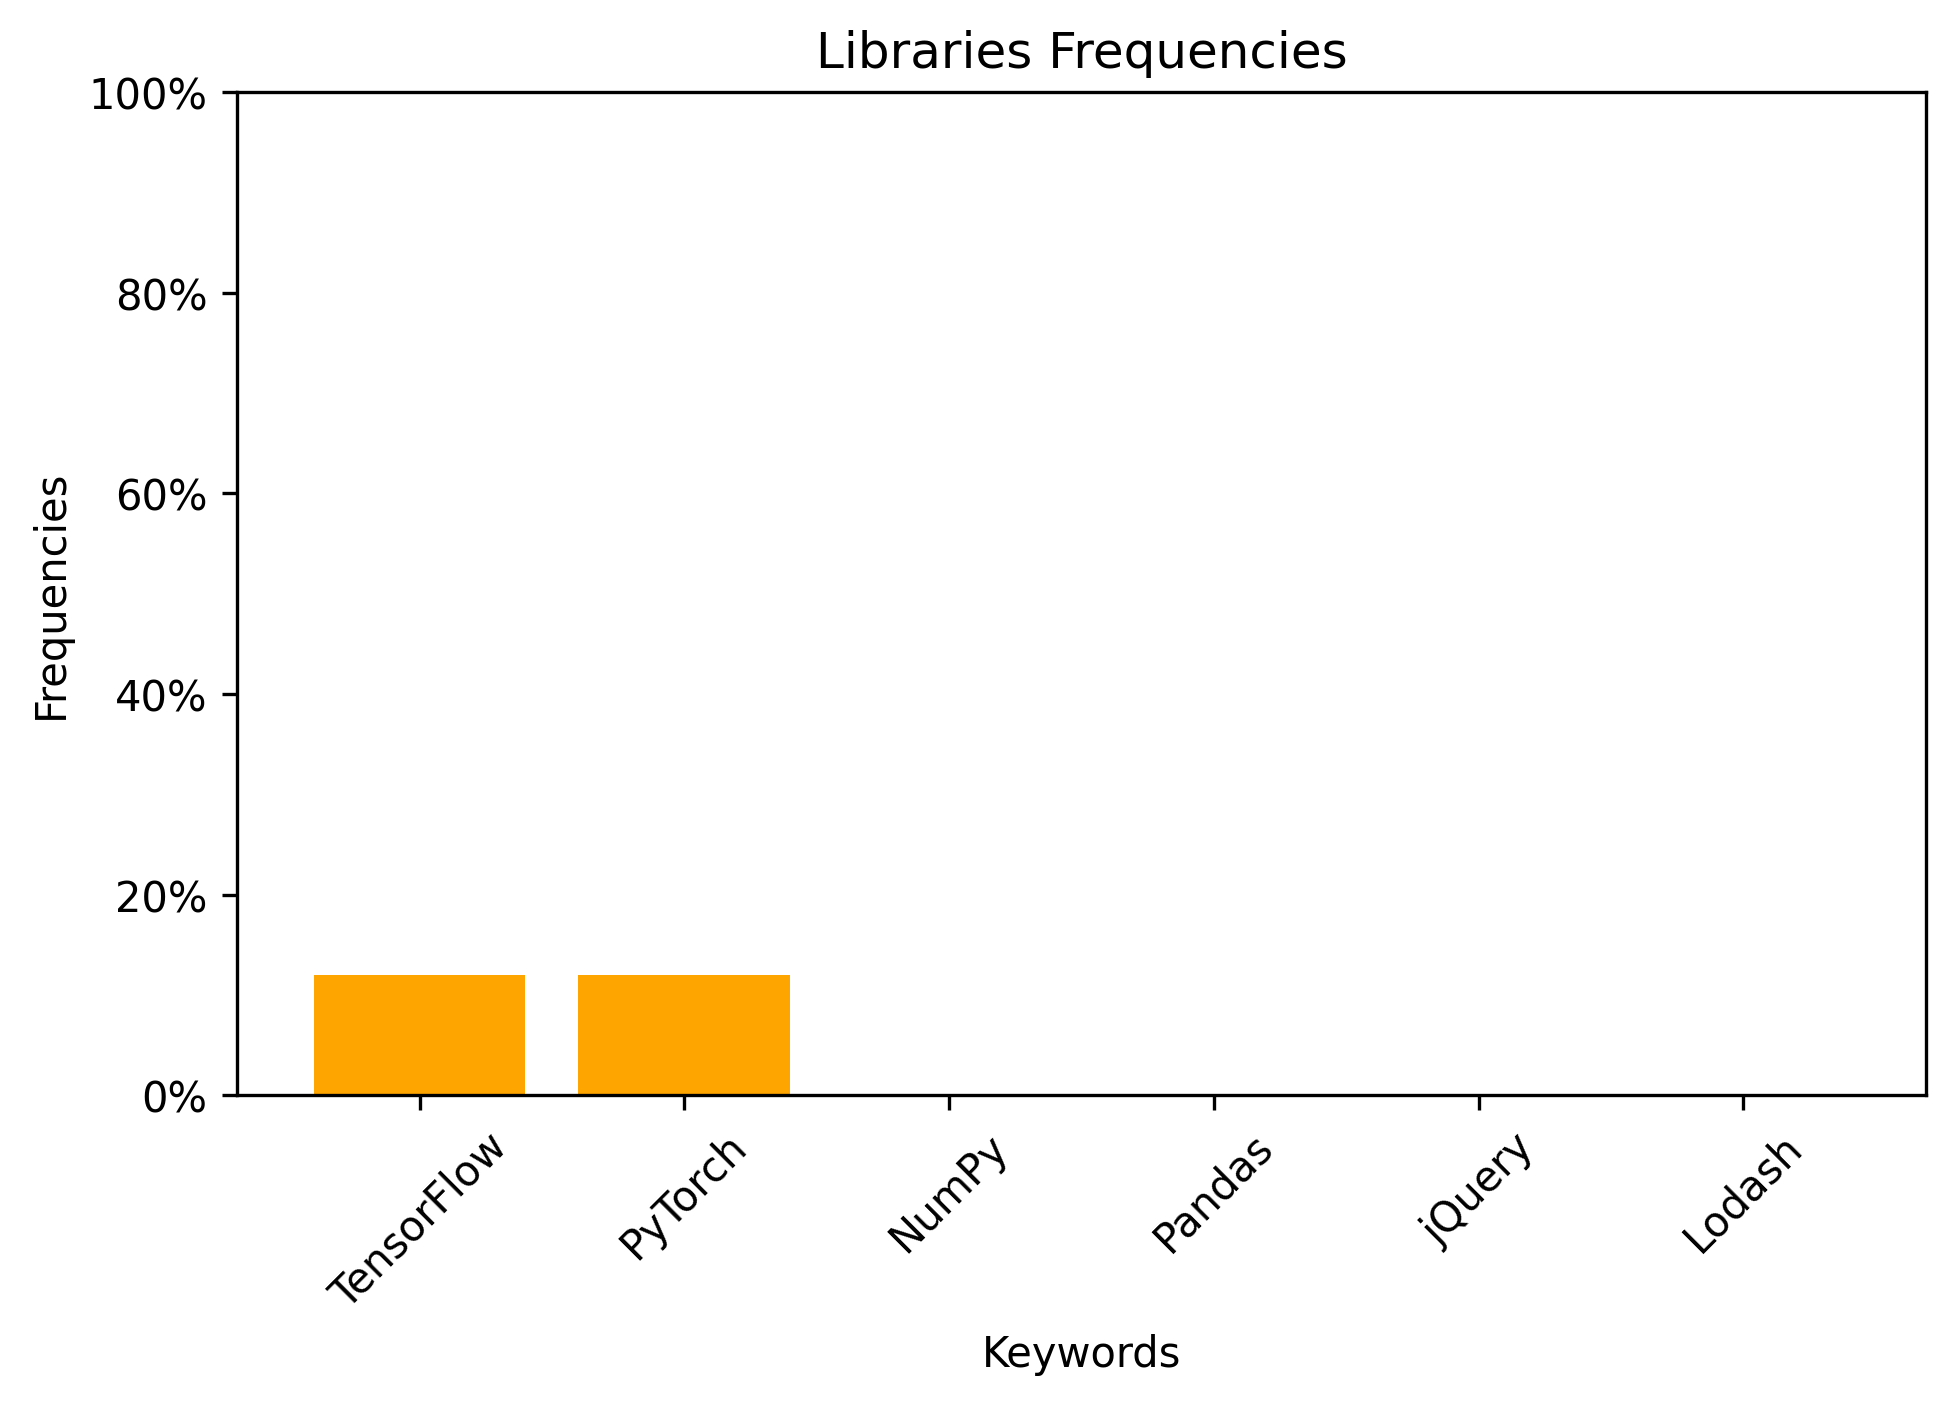
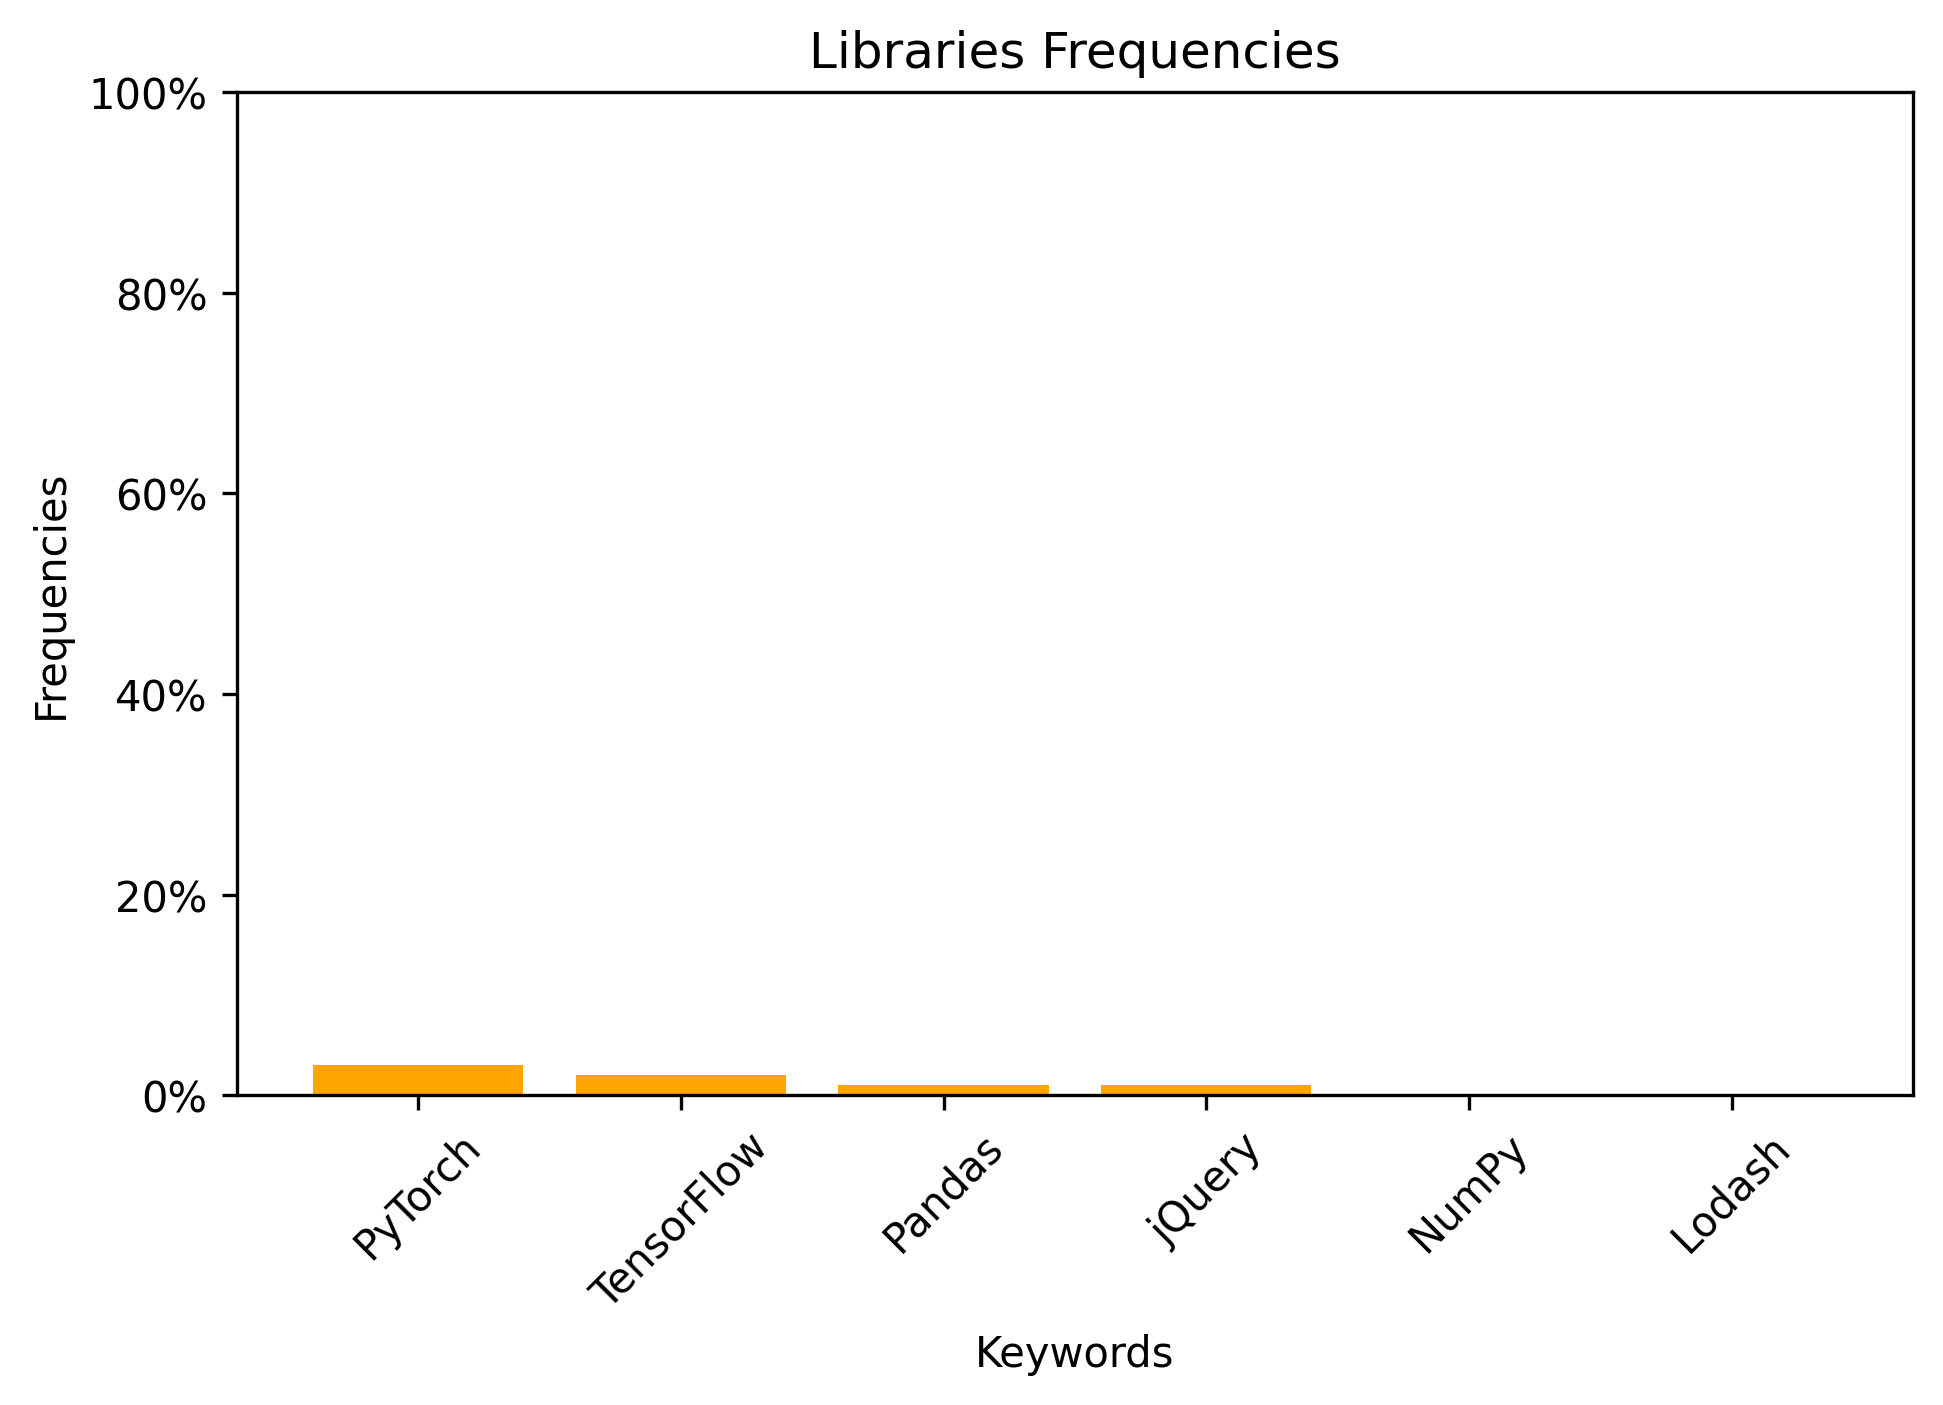
Added 3rd GitHub job board URL and ran with limit of 300

diff --git a/scraper.py b/scraper.py
@@ -8,10 +8,11 @@ import string
 import os
 from keywords import keywords
 
-LIMIT = 20 # number of application links to scrape
+LIMIT = 300 # number of application links to scrape
 URLS = [
     "https://github.com/SimplifyJobs/Summer2026-Internships?tab=readme-ov-file",
-    "https://github.com/vanshb03/Summer2026-Internships"
+    "https://github.com/vanshb03/Summer2026-Internships",
+    "https://github.com/Zackhardtoname/internships"
 ]
 
 def get_links(urls, limit):
